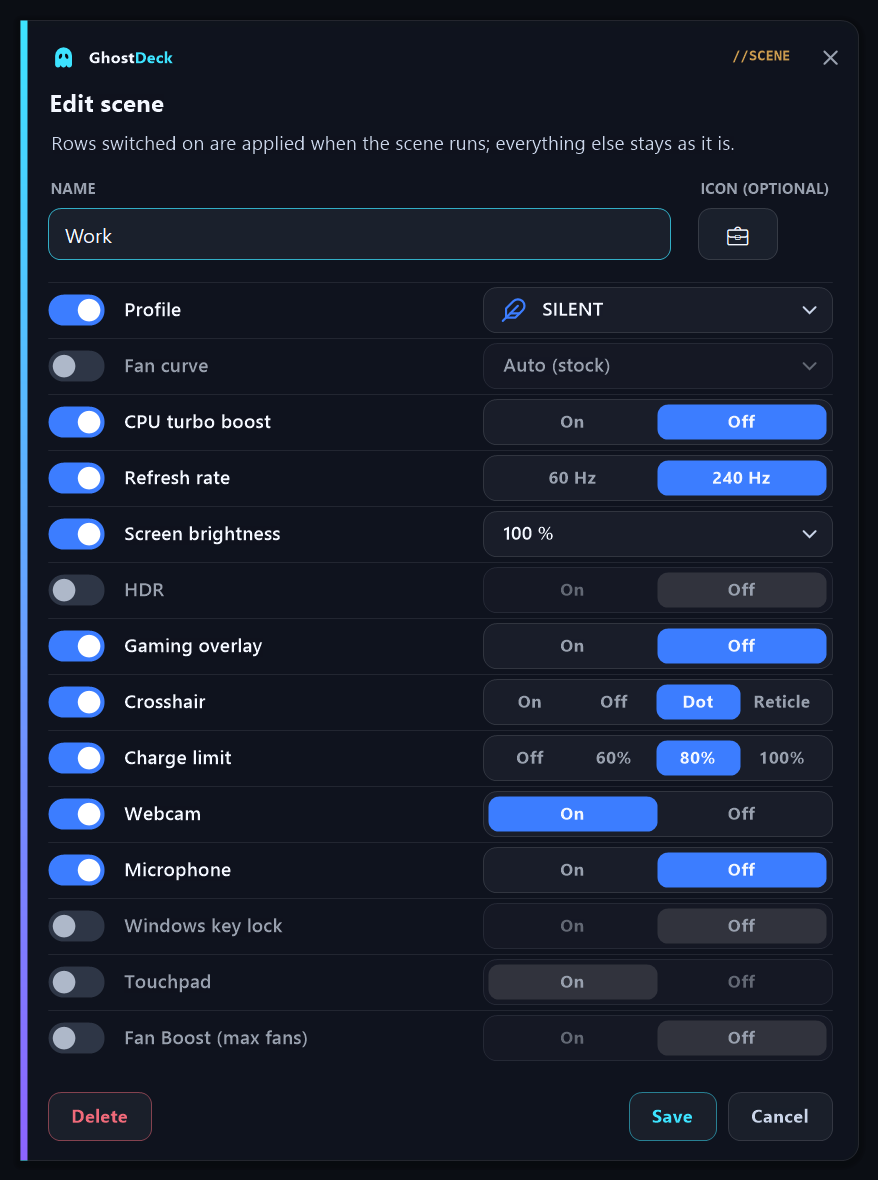
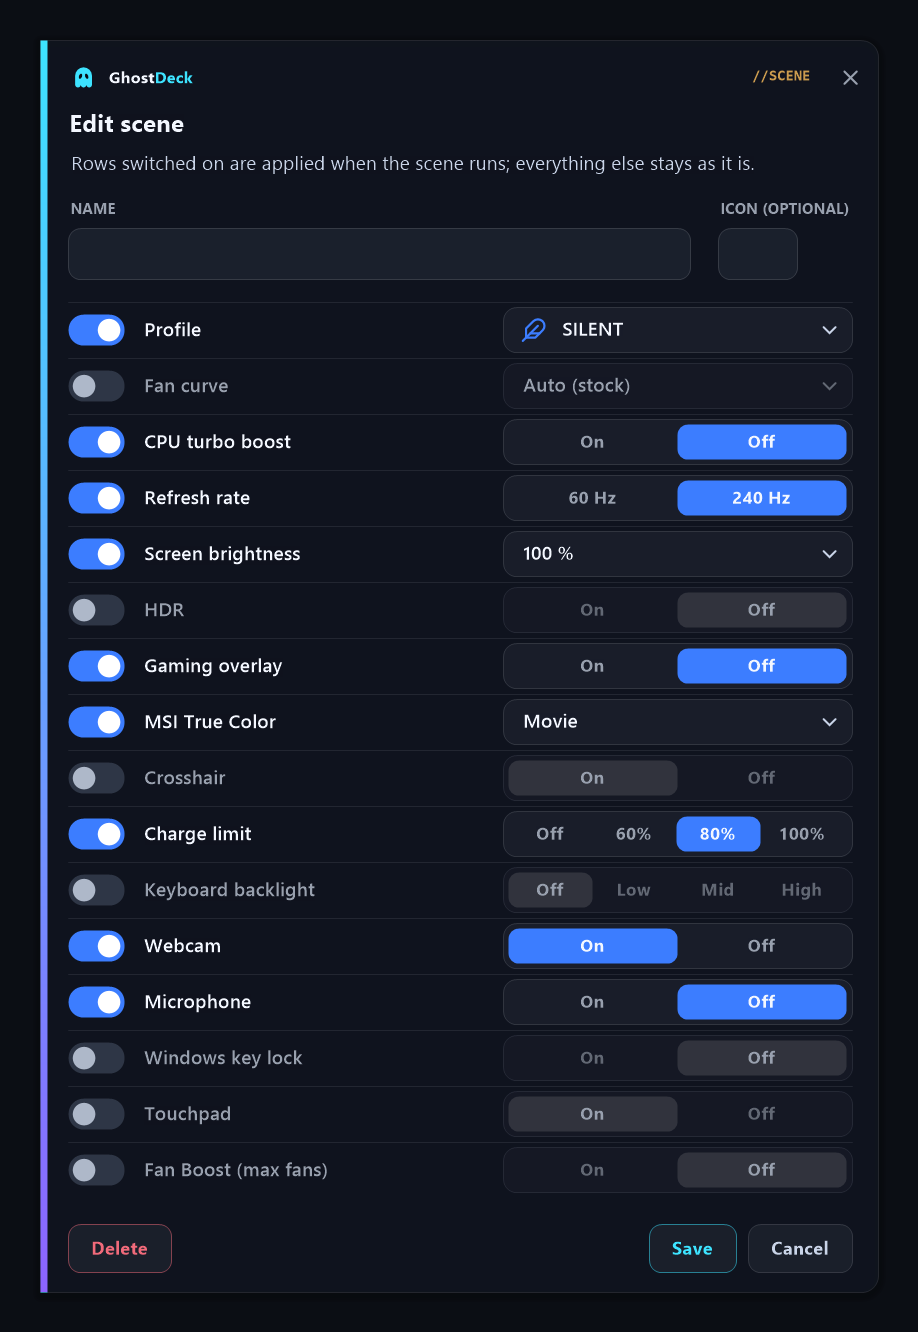
Docs: MSI True Color section and screenshots (README, FAQ entries on versions and crosshair sharing, TECHNICAL 80 images, scene editor with the True Color row) (#150, #204)

diff --git a/docs/FAQ.md b/docs/FAQ.md
@@ -244,6 +244,10 @@ GhostDeck draws the crosshair as a small window **over the screen**; it does not
 
 On anti-cheat: plain windows over the screen (Discord, Steam, OBS and this one) are not what anti-cheat systems look for, and we found no documented ban for one. Two cautions remain, and the Settings card repeats them: some anti-cheat clients (FACEIT, for example) **block programs they do not recognise** from running next to the game, and a game's rules can be broader than the technology. In ranked online games, prefer the crosshair built into the game. The two options that watch the mouse buttons (the click effect and hide-while-aiming) use a low-level hook like the Windows-key lock; both are off by default.
 
+## How do I keep several crosshairs, share one, or switch it automatically?
+
+Settings → Gaming → *Crosshair* (the Gaming group opens on a Start view with a tile per feature). **Presets:** *Save as...* keeps the current look under a name, without limit; a preset stays selected while you edit it, marked *(modified)*, and *Save* writes the changes back. **Sharing:** *Copy code* puts a short share code (`GDX1.…`) on the clipboard, *Paste code* applies one from a friend; the code carries the settings, not a picture, so a custom image travels as an exported PNG. *Export* writes the crosshair as PNG, or as SVG for the built-in shapes. The settings backup (Settings → System) carries the presets and the custom picture. **Switching:** a hotkey (`Ctrl+Alt+F12`, enable it under Shortcuts), the tile on Scenarios, the tray menu, a tray-click action, the taskbar jump list, a scene field (off / on / on with a preset, so a gaming scene can bring its own crosshair), `GhostDeck.exe --crosshair on|off|preset "Name"|code GDX1.…` or `ghostdeck://crosshair/on`.
+
 ## Does GhostDeck switch MSI True Color profiles? (sRGB, Gamer, Movie, Anti-Blue, Office, AdobeRGB, Display P3)
 
 Yes, as an **experimental, opt-in** feature since 1.39 (Settings → System → *MSI True Color*). MSI Center used to switch the True Color profile together with its scenario; GhostDeck can do the same with a **scene field** (*MSI True Color: leave alone / sRGB / Gamer / Movie / Anti-Blue / Office / AdobeRGB / Display P3*), by hand on the Settings card, from the tray menu, with `GhostDeck.exe --truecolor movie` or `ghostdeck://truecolor/movie`.
@@ -251,6 +255,14 @@ Yes, as an **experimental, opt-in** feature since 1.39 (Settings → System → 
 How it works, honestly: GhostDeck does **not** calculate colours and does not touch True Color's files, calibration or settings. It asks the **running True Color application** to switch, through the same undocumented window message True Color's own helper uses, and then reads back the profile True Color recorded in its registry. That record is what the card shows as *Recorded in True Color* (it follows Fn+A and True Color's own window too); *Last set by GhostDeck* is GhostDeck's own memory. Neither is a measurement of what the panel shows.
 
 The limits, as of 17 October 2026: the mechanism is **confirmed on one laptop** (MSI Raider GE78HX 13VH, built-in display, True Color 5.1.24.0, Windows 11 Home 26H2 build 26300.9711), with all seven profiles switching and no True Color window appearing. On any **other True Color version** the switch stays off; the card offers a one-click test instead (it switches to another profile for five seconds and back, you say whether the colours changed, and a *yes* unlocks the switch on that machine). True Color must be **installed and running** (it normally starts with Windows; if you closed it, start it from the Start menu, GhostDeck never starts it for you). **External monitors and HDR** were not tested: the message carries no monitor parameter, so expect it to act on whatever True Color itself acts on. True Color's own automatic switching (AppSync) is left alone; GhostDeck sends one request per action and never re-asserts a profile in the background. No guarantee that it works, use at your own risk; the author is not responsible for the effects of using an undocumented MSI interface.
+
+## My True Color is not version 5.1.24.0, or the card says it is not running. What now?
+
+**Another version.** The card then says *installed, but this version has not been confirmed* and keeps the switch off, because the message GhostDeck sends is undocumented and was checked on 5.1.24.0 only. Press **Test on my version**: after a consent card GhostDeck asks True Color for another profile (Anti-Blue, or Movie when Anti-Blue is the recorded one), waits five seconds, asks for the previous profile again and then asks *you* whether the screen colours visibly changed and came back. Answer **yes only if you saw it** - the switch then turns on for that version on that computer (the answer is not exported with the settings, another laptop has another True Color). Answer no and nothing is recorded. If it worked for you, say so in a GitHub discussion with the True Color version and your laptop: one line in the project's confirmed-version list unlocks it for everyone with that version, without a test.
+
+**Not running.** True Color normally starts with Windows and sits in the tray. If the card says it is not running (or a scene's history line says the True Color step was skipped), start it from the Start menu; GhostDeck never starts it for you, because starting it shows its window. **The switch is off.** Enable it on the card; with the switch off a scene skips its True Color field with a history line, and `--truecolor <profile>` or a link answers with a refusal (`--truecolor status` works always).
+
+**What the card shows.** *Recorded in True Color* is what True Color itself last recorded, so it follows Fn+A and True Color's own window too, within a moment; *Last set by GhostDeck* is only GhostDeck's memory. Neither is a measurement of the panel. Switching to the profile that is already recorded sends nothing (*already recorded* in the history). Not tested, so not promised: external monitors, HDR, other laptops.
 
 ## Why does it ask for administrator (UAC)?
 

diff --git a/README.md b/README.md
@@ -169,6 +169,20 @@ A crosshair drawn at the centre of the screen, over any game running in windowed
 
 Two honest notes: a game in **exclusive full-screen** mode may hide any window over the screen, so use windowed or borderless mode; and in **ranked online games** prefer the crosshair built into the game. We found no documented ban for a plain window over the screen, but some anti-cheat clients (FACEIT, for example) block programs they do not recognise, and game rules can be broader than the technology. More in the [FAQ](docs/FAQ.md) and [TECHNICAL.md §79](docs/TECHNICAL.md).
 
+## MSI True Color (experimental)
+
+MSI's own **True Color** application holds the display colour profiles (sRGB, Gamer, Movie, Anti-Blue, Office, AdobeRGB, Display P3), and MSI Center used to switch them together with its scenario. GhostDeck can switch them too: on a card under Settings → System, from the tray menu, as a **scene field**, with `GhostDeck.exe --truecolor movie` or a `ghostdeck://truecolor/movie` link. It asks the **running** True Color application to do it, through the window message True Color's own helper uses, and reads back the profile True Color recorded; it writes nothing to True Color's files or settings, never calculates colours itself and never starts True Color for you.
+
+![Settings → System → MSI True Color: the installed version, the switch, the seven profile tiles, the recorded profile and what GhostDeck last asked for](docs/images/settings_truecolor.png)
+
+The feature is **off by default**. The first enable shows a consent card, and the card itself keeps the same disclaimer in plain view: experimental, with no guarantee that it works; you use it at your own risk and the author is not responsible for the effects of using an undocumented MSI interface; tested on 17 October 2026 on one MSI Raider GE78HX 13VH with True Color 5.1.24.0 and Windows 11 Home 26H2 (build 26300.9711), built-in display only. On any **other True Color version the switch stays off** - the card offers a one-click test instead: one switch to another profile for five seconds and back, then one question. A *yes* unlocks the switch on that computer, and a line in the project's confirmed-version list is all it takes to unlock it for everyone once a version is reported working.
+
+![Another True Color version: the switch stays off and the card offers the test](docs/images/settings_truecolor_unconfirmed.png)
+
+![The question after the test; a yes unlocks the switch on this computer](docs/images/truecolor_verify.png)
+
+External monitors and HDR were not tested (the message carries no monitor parameter). Details and the limits: [FAQ](docs/FAQ.md), [TECHNICAL.md §80](docs/TECHNICAL.md), [CLI](docs/CLI.md).
+
 ## Screenshots
 
 | | |
@@ -178,7 +192,7 @@ Two honest notes: a game in **exclusive full-screen** mode may hide any window o
 | ![Scenes](docs/images/scenes.png) | ![Schedule rule](docs/images/schedule_rule.png) |
 | **Scenes** - every setting the scene touches as a chip; the profile pill wears that profile's color | **Scene schedule** - a rule is a scene + weekdays + a time window (overnight ranges fine) |
 | ![Scene editor](docs/images/scene_editor.png) | ![Settings General](docs/images/settings_general.png) |
-| **Scene editor** - switch on only the settings a scene should apply (brightness, HDR, the crosshair with one of your presets, Windows-key lock and touchpad included); everything else stays as it is | **Settings → General** - pick which bricks and sections the Scenarios tab shows; the gear on Scenarios jumps here and highlights this card |
+| **Scene editor** - switch on only the settings a scene should apply (brightness, HDR, the crosshair with one of your presets, an MSI True Color profile, Windows-key lock and touchpad included); everything else stays as it is | **Settings → General** - pick which bricks and sections the Scenarios tab shows; the gear on Scenarios jumps here and highlights this card |
 | ![Status](docs/images/status.png) | ![Settings](docs/images/settings.png) |
 | **Status** - temperature/fan rings, fan RPM, per-disk S.M.A.R.T. temperatures, battery time, RAM | **Settings** - Start dashboard: icon sub-tabs and the live state of every group on its tile |
 | ![Settings Power](docs/images/settings_power.png) | ![Settings System](docs/images/settings_system.png) |
@@ -215,6 +229,8 @@ Two honest notes: a game in **exclusive full-screen** mode may hide any window o
 | ![Taskbar jump list: profiles, scenes, Fan Boost, panic reset](docs/images/jumplist.png) | ![Settings: the ghostdeck:// links switch](docs/images/settings_links.png) |
 | ![Settings → Gaming → Crosshair](docs/images/settings_crosshair.png) | ![The eleven crosshair shapes](docs/images/crosshair_shapes.png) |
 | **Settings → Gaming → Crosshair** - shape tiles, your own PNG, a preview on a dark and a light half; colour, size, rim, softness, rotation and offset on the look card, with presets and a share code | **The eleven built-in shapes** at 140 % scaling, each with the dark rim that keeps it readable on a bright and a dark scene |
+| ![Settings → System → MSI True Color](docs/images/settings_truecolor.png) | ![MSI True Color, first enable](docs/images/truecolor_consent.png) |
+| **Settings → System → MSI True Color** - experimental: the installed version and whether it is confirmed, the switch, the seven profile tiles with the profile True Color recorded, and what GhostDeck last asked for | **MSI True Color, first enable** - one card says what the switch does, that it uses an undocumented MSI interface, and where it was tested |
 
 Every message from the tray is a GhostDeck card (an update, an announcement, the end of travel mode, a charge limit changed outside the app, the temperature and SSD alerts, refused shortcuts, a refused link):
 

diff --git a/docs/TECHNICAL.md b/docs/TECHNICAL.md
@@ -3512,6 +3512,8 @@ profiles) remains declined; this is the opposite thing: one message to the vendo
 
 Everything lives in `Core/TrueColor.cs`; every entry goes through `TrueColor.Set`.
 
+![Settings → System → MSI True Color: the confirmed version, the switch with its standing disclaimer, the seven tiles, the recorded profile and GhostDeck's own last request](images/settings_truecolor.png)
+
 ### 80.2 The protocol
 
 True Color keeps a resident hidden window (class `MSITrueColorClass`, title `MSI True Color`)
@@ -3575,6 +3577,10 @@ value is not exported with the settings (another laptop has another True Color).
 the status and `--truecolor status` work on any version; nothing is ever sent to an
 unconfirmed one outside that test. The exe's SHA-256 goes into the diagnostic zip for triage
 and gates nothing.
+
+![An unconfirmed version: the status line in amber, the switch off, the tiles greyed and the test button](images/settings_truecolor_unconfirmed.png)
+
+![The question after the test; "Yes" records the version as verified on this machine](images/truecolor_verify.png)
 
 ### 80.4 Threads, gates and reporting
 
